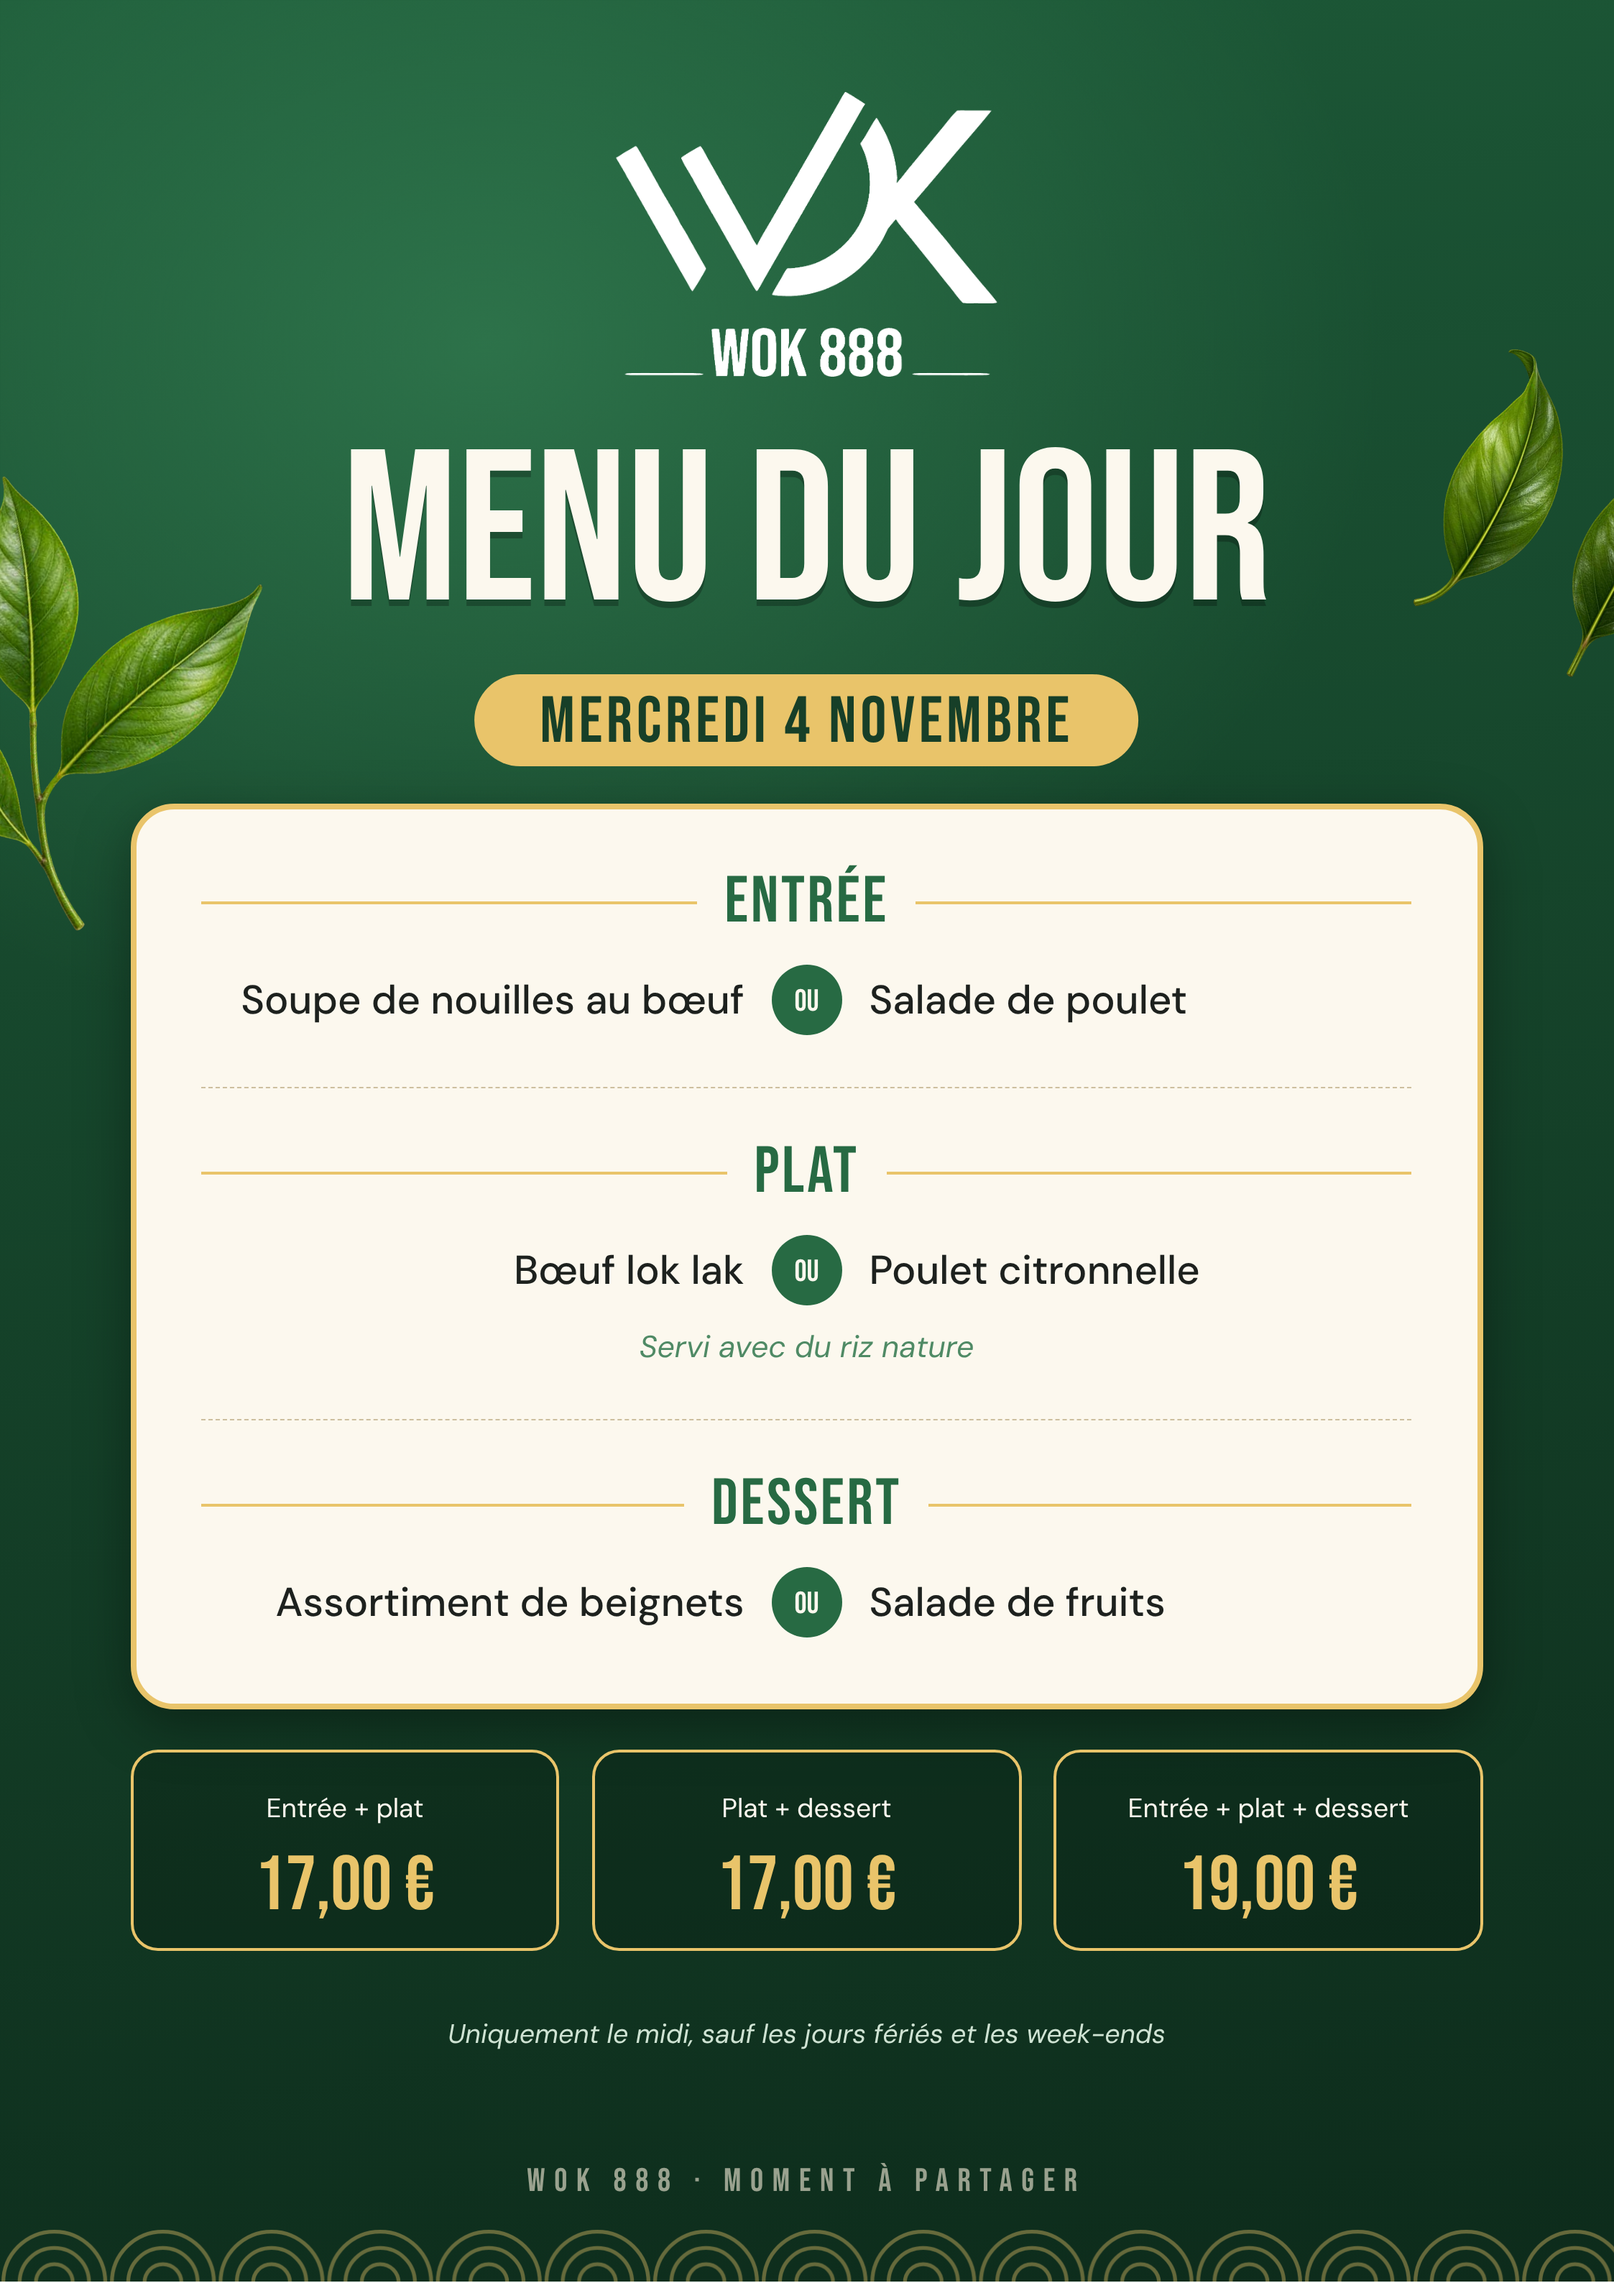
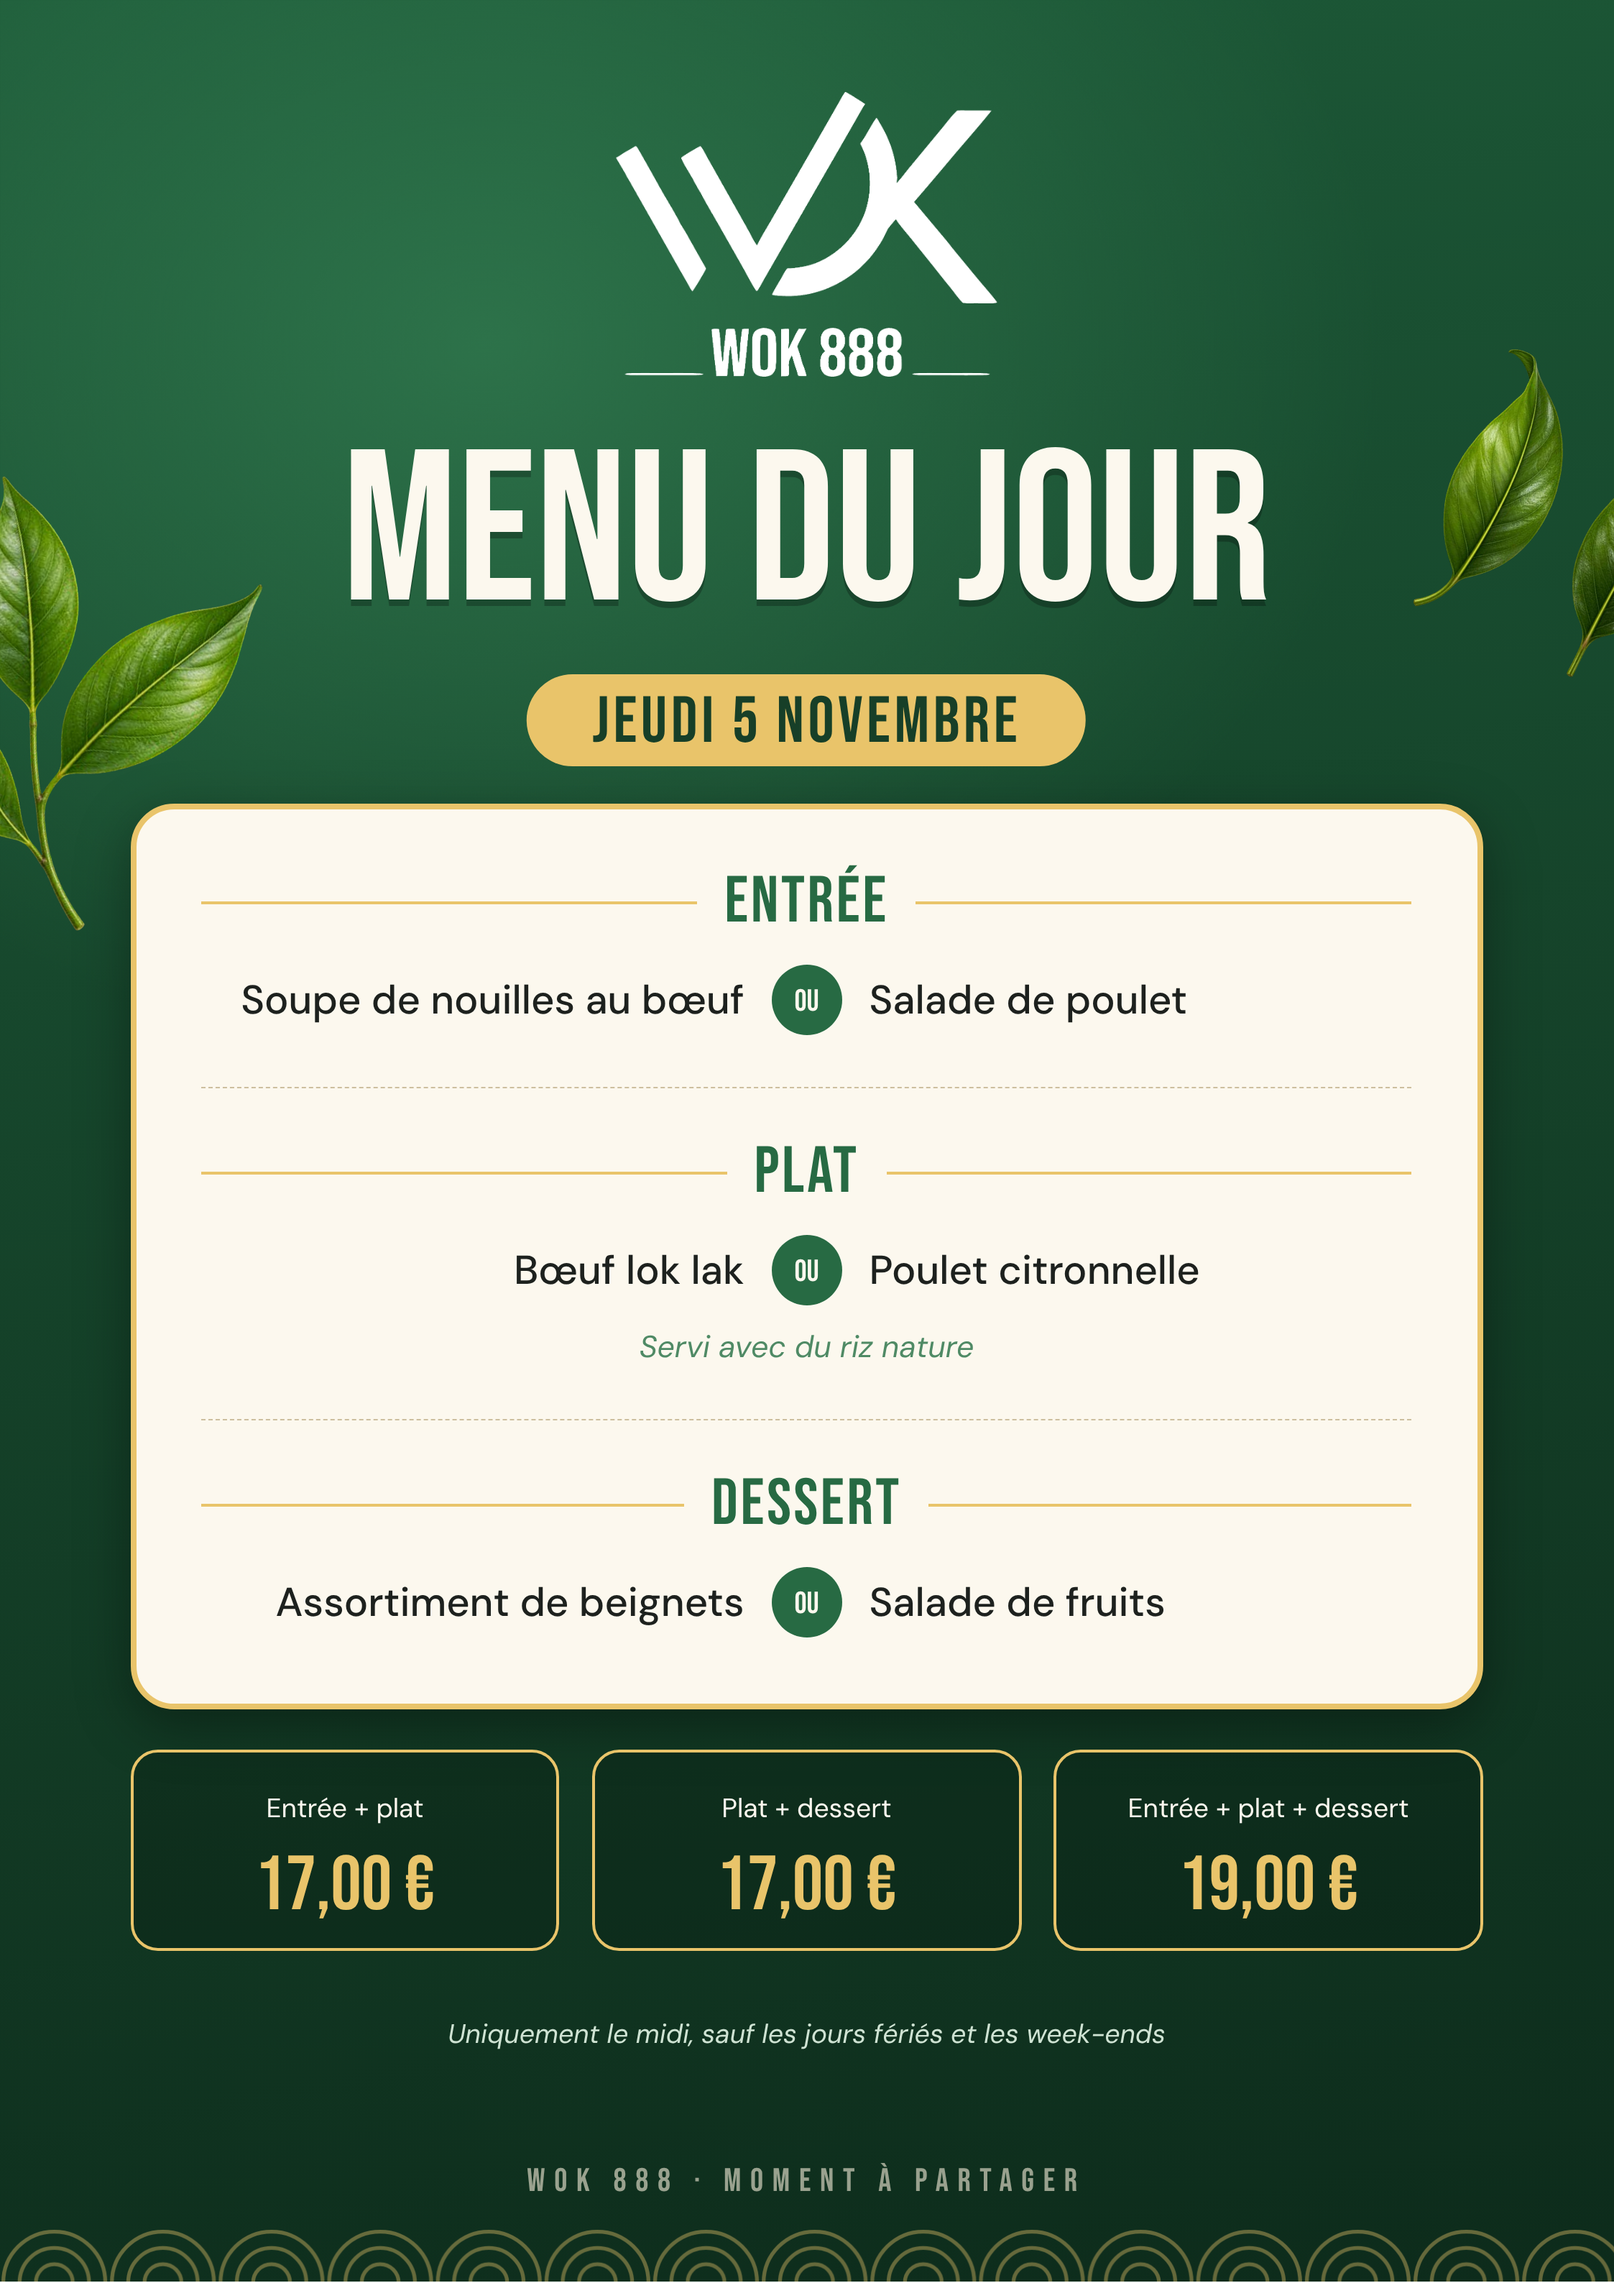
Affiche du menu du jour : date du jeudi 5 novembre
Claude-Session: https://claude.ai/code/session_01MEqpJyWX3U1Dpja9E66qds

Changed region(s): [[0.2805, 0.2805, 0.7168, 0.3429]]

diff --git a/impression-wok-888/affiche-menu-du-jour.html b/impression-wok-888/affiche-menu-du-jour.html
@@ -76,7 +76,7 @@
   </div>
 
   <h1>Menu du jour</h1>
-  <div class="abs date">Mercredi 4 novembre</div>
+  <div class="abs date">Jeudi 5 novembre</div>
 
   <div class="abs carte">
     <section class="service">
